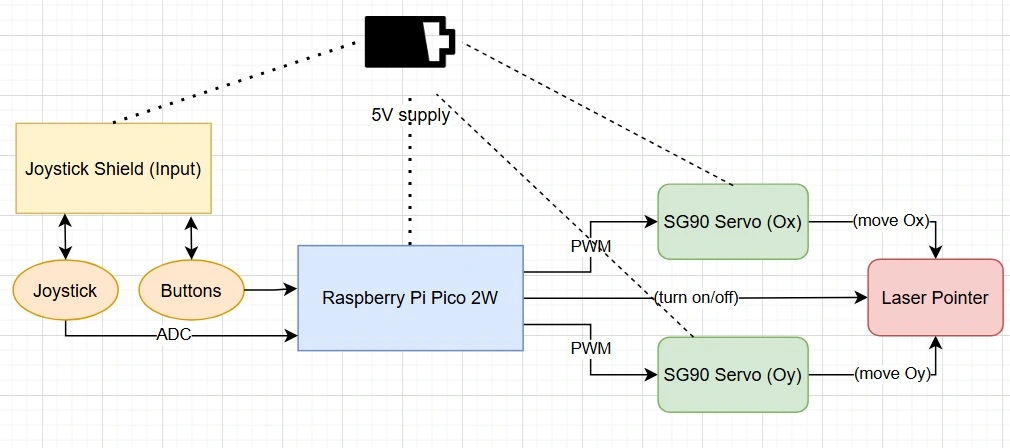
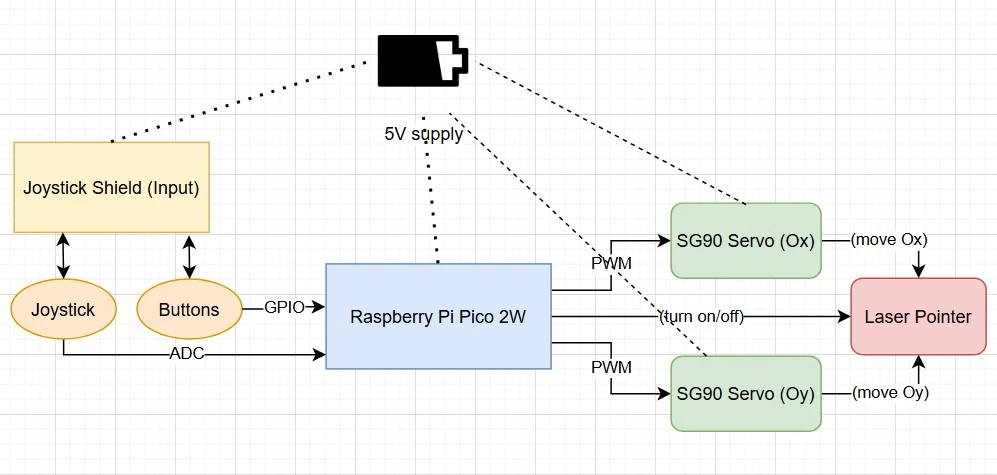
Update documentation for hardware deadline

diff --git a/website/versioned_docs/version-acs_cc/project/2025/alexandru.ghita0312/index.md b/website/versioned_docs/version-acs_cc/project/2025/alexandru.ghita0312/index.md
@@ -21,11 +21,10 @@ I wanted to create something practical and enjoyable for use at home. As a cat o
 ![Architecture](Architecture.webp)
 
 The main software components of the project include:
-- **Control Module**: Handles manual input from a joystick and button presses to switch modes and patterns.
+- **Control Module**: Handles manual input from a joystick (ADC) and button presses (GPIO) to switch modes and patterns.
 - **Mode Manager**: Keeps track of the current operating mode and interprets input accordingly.
-- **Movement Generator**: Generates movement signals, either random/predetermined (automatic mode) or from joystick (manual mode).
-- **Servo Driver**: Sends PWM signals to the two servo motors to move the laser pointer.
-- **Laser Pointer Control**: Interfaces with hardware to manage the laser's power state (ON/OFF).
+- **Movement Generator**: Generates movement signals, either random/predetermined (automatic mode) or transformed from joystick input (manual mode).
+- **Servo Driver**: Sends PWM signals to the two servo motors inside the 2-axis 3D printed stand to move the laser pointer mounted on top of it.
 
 These components interact as follows:
 
@@ -36,25 +35,32 @@ These components interact as follows:
 <!-- write your progress here every week -->
 
 ### Week 5 - 11 May
-TODO
+
+Find out what how to connect and get input from buttons and joystick and how to power the laser and move the servo motors using the labs as example.
+Get the rest of the needed components and a new pico 2w as a debug probe for easier programming.
 
 ### Week 12 - 18 May
-TODO
+
+Complete the schematic with a better understanding of how it should look like. Connect all of the harware components together and make sure they work.
+Add a picture of the hardware in current form. Play around with the code to start things up for the software part.
 
 ### Week 19 - 25 May
-TODO
+TBD
 
 ## Hardware
 
 - **Raspberry Pi Pico 2W**: LaserChase uses a Raspberry Pi Pico 2W as the main controller.
 - **SG90 Servo (x2) + Laser Pointer**: Two SG90 servos are used to move the laser pointer on two axes.
-- **Joystick Shield**: Control is done via a joystick shield and mode switching through push buttons.
-- **9V Battery + Holder + DC-DC Step Down Module**: Power is supplied through a 9V battery regulated by a step-down module.
+- **Joystick Shield**: Control is done via a joystick shield and mode and pattern switching through push buttons.
+- **9V Battery + Holder + DC-DC Step Down Module**: Power is supplied through a 9V battery regulated by a step-down module to 5V.
 - **Breadboard + Wires**: Components are connected using wires and a breadboard.
+
+### Hardware progress
+
+![Hardware_1](Hardware_1.webp)
 
 ### Schematics
 
-Here is presented the KiCad schematic:
 ![KiCad](KiCad.webp)
 
 ### Bill of Materials
@@ -71,24 +77,24 @@ The format is
 
 | Device | Usage | Price |
 |--------|--------|-------|
-| [Raspberry Pi Pico 2W](https://www.raspberrypi.com/documentation/microcontrollers/raspberry-pi-pico.html) | Main microcontroller | [40 RON](https://www.optimusdigital.ro/en/raspberry-pi-boards/13327-raspberry-pi-pico-2-w.html) |
+| [2x Raspberry Pi Pico 2W](https://www.raspberrypi.com/documentation/microcontrollers/raspberry-pi-pico.html) | Main microcontroller + debug probe | [80 RON](https://www.optimusdigital.ro/en/raspberry-pi-boards/13327-raspberry-pi-pico-2-w.html) |
 | [2x SG90 Servo Motors](https://docs.m5stack.com/en/accessory/sg90_servo?ref=langship) | Control the X/Y angle of the laser | [24 RON](https://www.optimusdigital.ro/en/servomotors/2261-micro-servo-motor-sg90-180.html) |
 | [Joystick Shield V1.A](https://handsontec.com/dataspecs/module/Arduino%20Shield/Joystick%20Shield.pdf) | Manual control of laser | [20 RON](https://www.optimusdigital.ro/en/arduino-shields/1283-shield-joystick-pentru-arduino.html) |
 | [DC-DC Step Down Module](https://www.st.com/en/power-management/dc-dc-converter-modules/documentation.html) | Voltage regulation to 5V | [13 RON](https://www.optimusdigital.ro/en/adjustable-step-down-power-supplies/1108-lm2596hv-dc-dc-step-down-module.html) |
 | 9V Battery + Holder | Power source | [10.3 RON](https://www.optimusdigital.ro/en/battery-holders/20-9v-battery-support.html) |
+| 2x Breadboard | Circuit connection | [9 RON](https://www.optimusdigital.ro/en/breadboards/44-400p-hq-breadboard.html) |
 | Wires | Connections between components | [8 RON](https://www.optimusdigital.ro/en/wires-with-connectors/890-set-fire-tata-tata-40p-30-cm.html) |
-| Breadboard | Circuit prototyping | [4.5 RON](https://www.optimusdigital.ro/en/breadboards/44-400p-hq-breadboard.html) |
 | Micro USB Cable | Power and programming cable | [4 RON](https://www.optimusdigital.ro/en/usb-cables/11939-micro-usb-black-cable-1-m.html) |
+| 2x Header Pins | Connection to breadboard | [4 RON](https://www.optimusdigital.ro/en/pin-headers/85-40p-254-mm-pin-header-200-pcs.html) |
 | Laser Pointer | Red colored laser | [2.6 RON](https://www.emag.ro/jucarie-laser-pentru-pisici-rosu-las02/pd/D6MMH5MBM/?ref=graph_profiled_similar_fallback_1_3&provider=rec&recid=rec_49_02188673a55cfa40086dd06e58c266684d055622826af4a5d7d376fa854708ce_1745921180&scenario_ID=49) |
-| Header Pins | Connection to breadboard | [2 RON](https://www.optimusdigital.ro/en/pin-headers/85-40p-254-mm-pin-header-200-pcs.html) |
-
+| TOTAL | --- | 174.9 RON |
 
 ## Software
 
 | Library | Description | Usage |
 |---------|-------------|-------|
 | [embassy](https://github.com/embassy-rs/embassy) | Embassy | An asynchronous executor and Hardware Abstraction Layer (HAL) designed for constructing embedded applications in Rust |
-| [embassy-executor](https://docs.embassy.dev/embassy-executor/git/std/index.html)|Embassy Executor | Used for task scheduling and asynchronous programming |
+| [embassy-executor](https://docs.embassy.dev/embassy-executor/git/std/index.html)| Embassy Executor | Used for task scheduling and asynchronous programming |
 |[embassy-rp](https://docs.embassy.dev/embassy-rp/git/rp2040/index.html)| Embassy RP | Used for initializing and interacting with peripherals |
 |[gpio](https://docs.embassy.dev/embassy-stm32/git/stm32c011d6/gpio/index.html)| GPIO | Used for interacting with GPIO pins |
 | [rand](https://docs.rs/rand/latest/rand/) | Random number generation | For automatic/random movement logic |
